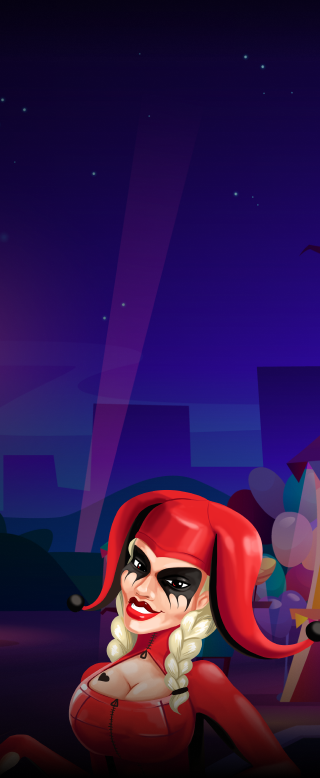
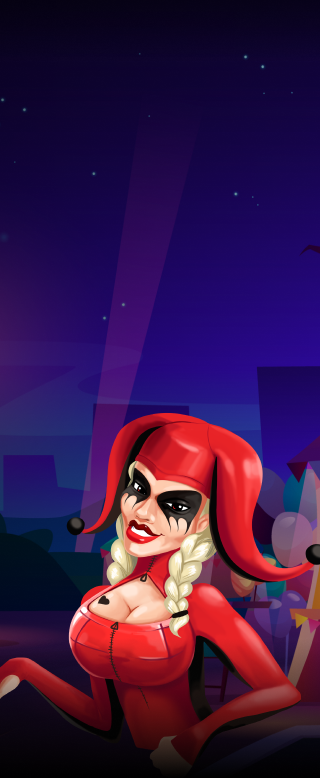
delete img for mob

Changed region(s): [[0.0, 0.5244, 1.0, 0.9871], [0.0, 0.9254, 0.1875, 0.9871]]

diff --git a/index.html b/index.html
@@ -35,11 +35,6 @@
                         <h4>€5000</h4>
                         <h3>+ 150 free spins</h3>
                         <a class="heart" href="https://www.arlekincasino.com/en/users/sign_up">GET BONUS</a>
-                        <div class="header__links-mob">
-                            <ul href="https://www.arlekincasino.com/en/users/sign_up" class="header__link">
-                                <img src="img/img_mob-en.png" alt="proposition">
-                            </ul>
-                        </div>
                     </div>
                 </div>
             </div>

diff --git a/de.html b/de.html
@@ -35,11 +35,6 @@
                         <h4>€5000</h4>
                         <h3>+ 150 freispiele </h3>
                         <a href="https://www.arlekincasino.com/de/users/sign_up">Bonus erhalten</a>
-                        <div class="header__links-mob">
-                            <a href="#" class="header__link">
-                                <img src="img/img_mob-en.png" alt="proposition">
-                            </a>
-                        </div>
                     </div>
                 </div>
             </div>
